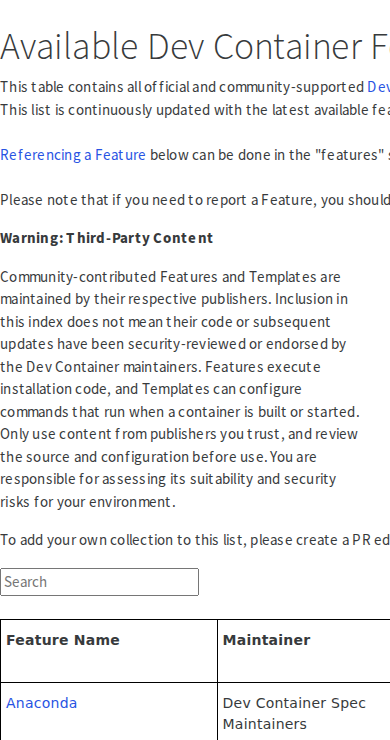
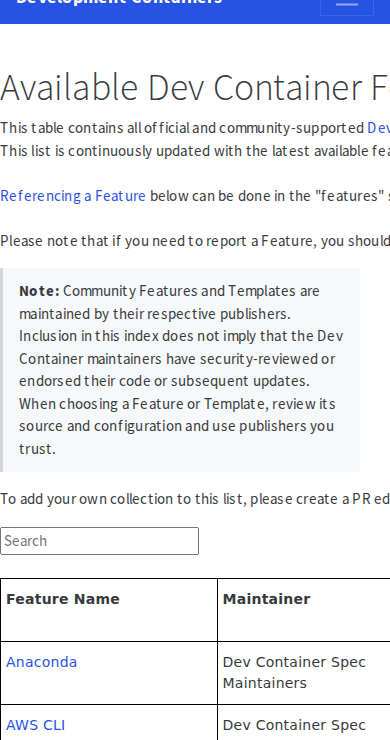
Present community content guidance as a neutral note

diff --git a/templates.html b/templates.html
@@ -16,9 +16,8 @@ sectionid: collection-index-templates
     Please note that if you need to report a Template, you should do so through the registry hosting the Template.
 </p>
 
-<blockquote class="third-party-content-warning" role="note" aria-labelledby="third-party-content-heading">
-    <p id="third-party-content-heading"><strong>Warning: Third-Party Content</strong></p>
-    <p>Community-contributed Features and Templates are maintained by their respective publishers. Inclusion in this index does not mean their code or subsequent updates have been security-reviewed or endorsed by the Dev Container maintainers. Features execute installation code, and Templates can configure commands that run when a container is built or started. Only use content from publishers you trust, and review the source and configuration before use. You are responsible for assessing its suitability and security risks for your environment.</p>
+<blockquote class="third-party-content-note" role="note" aria-label="Community Features and Templates">
+    <p><strong>Note:</strong> Community Features and Templates are maintained by their respective publishers. Inclusion in this index does not imply that the Dev Container maintainers have security-reviewed or endorsed their code or subsequent updates. When choosing a Feature or Template, review its source and configuration and use publishers you trust.</p>
 </blockquote>
 
 <p>

diff --git a/features.html b/features.html
@@ -18,9 +18,8 @@ sectionid: collection-index-features
     Please note that if you need to report a Feature, you should do so through the registry hosting the Feature.
 </p>
 
-<blockquote class="third-party-content-warning" role="note" aria-labelledby="third-party-content-heading">
-    <p id="third-party-content-heading"><strong>Warning: Third-Party Content</strong></p>
-    <p>Community-contributed Features and Templates are maintained by their respective publishers. Inclusion in this index does not mean their code or subsequent updates have been security-reviewed or endorsed by the Dev Container maintainers. Features execute installation code, and Templates can configure commands that run when a container is built or started. Only use content from publishers you trust, and review the source and configuration before use. You are responsible for assessing its suitability and security risks for your environment.</p>
+<blockquote class="third-party-content-note" role="note" aria-label="Community Features and Templates">
+    <p><strong>Note:</strong> Community Features and Templates are maintained by their respective publishers. Inclusion in this index does not imply that the Dev Container maintainers have security-reviewed or endorsed their code or subsequent updates. When choosing a Feature or Template, review its source and configuration and use publishers you trust.</p>
 </blockquote>
 
 <p>

diff --git a/collections.html b/collections.html
@@ -12,9 +12,8 @@ sectionid: collection-index
     (i.e. it will be presented in the GitHub Codespaces and VS Code Dev Containers UX).
 </p>
 
-<blockquote class="third-party-content-warning" role="note" aria-labelledby="third-party-content-heading">
-    <p id="third-party-content-heading"><strong>Warning: Third-Party Content</strong></p>
-    <p>Community-contributed Features and Templates are maintained by their respective publishers. Inclusion in this index does not mean their code or subsequent updates have been security-reviewed or endorsed by the Dev Container maintainers. Features execute installation code, and Templates can configure commands that run when a container is built or started. Only use content from publishers you trust, and review the source and configuration before use. You are responsible for assessing its suitability and security risks for your environment.</p>
+<blockquote class="third-party-content-note" role="note" aria-label="Community Features and Templates">
+    <p><strong>Note:</strong> Community Features and Templates are maintained by their respective publishers. Inclusion in this index does not imply that the Dev Container maintainers have security-reviewed or endorsed their code or subsequent updates. When choosing a Feature or Template, review its source and configuration and use publishers you trust.</p>
 </blockquote>
 
 <p>

diff --git a/_layouts/table.html b/_layouts/table.html
@@ -5,8 +5,15 @@ layout: default
 <div class="container">
     <div class="row single-page">
         <style type="text/css">
-            .third-party-content-warning {
+            .third-party-content-note {
                 max-width: calc(100vw - 30px);
+                padding: 12px 16px;
+                background-color: #f6f8fa;
+                border-left: 3px solid #d0d7de;
+            }
+
+            .third-party-content-note p {
+                margin-bottom: 0;
             }
 
             .tg {
